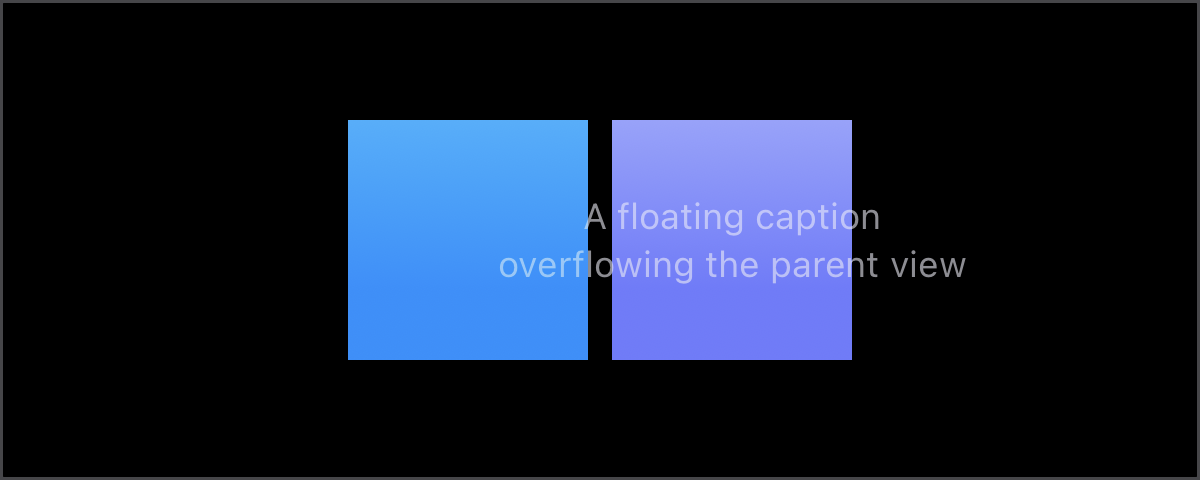
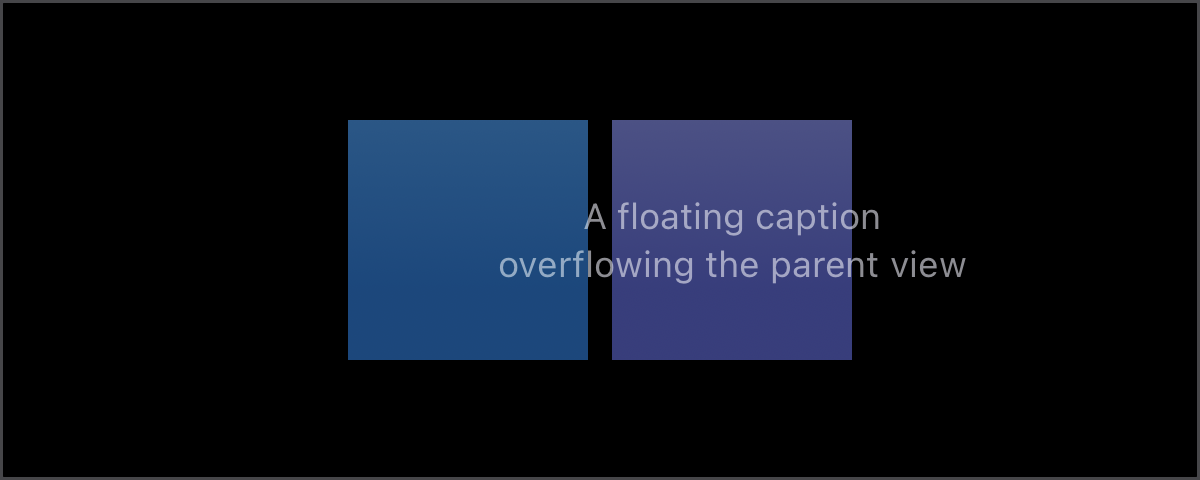
correct floating caption docs

Changed region(s): [[0.2775, 0.25, 0.7092, 0.75]]

diff --git a/sources/modifiers/FloatingCaptionModifier.swift b/sources/modifiers/FloatingCaptionModifier.swift
@@ -26,10 +26,10 @@ import SwiftUI
 /// ```swift
 /// HStack {
 ///     Rectangle()
-///         .fill(.blue.gradient)
+///         .fill(.blue.gradient.secondary)
 ///         .frame(width: 80, height: 80)
 ///     Rectangle()
-///         .fill(.indigo.gradient)
+///         .fill(.indigo.gradient.secondary)
 ///         .frame(width: 80, height: 80)
 ///         .floatingCaption("A floating caption\noverflowing the parent view")
 /// }
@@ -40,11 +40,10 @@ import SwiftUI
 /// ### Text and Alignment
 ///
 /// The caption can be configured by passing ``Trait`` instances to ``SwiftUICore/View/floatingCaption(_:_:)``,
-/// the ``FloatingCaptionModifier/Trait/alignment(_:)`` trait determines the position of the
-/// caption.
+/// the [`alignment(_:)`](doc:Trait/alignment(_:)) trait determines the position of the caption.
 ///
 /// Markdown formatting is supported in the given localized string key. The caption text treats the
-/// localized key similar to `SwiftUICore/Text/init(_:tableName:bundle:comment:)`. See ``SwiftUICore/Text``
+/// localized key similar to `SwiftUICore/Text/init(_:tableName:bundle:comment:)`. See `SwiftUICore/Text`
 /// for more information about localizing and formatting strings.
 ///
 /// ```swift

diff --git a/tests/documentation-renders/RendersforFloatingCaption.swift b/tests/documentation-renders/RendersforFloatingCaption.swift
@@ -21,10 +21,10 @@ struct RendersForFloatingCaption {
         let resource = try DocumentationRenderer.render("floating-caption", "default", height: 160) {
             HStack {
                 Rectangle()
-                    .fill(.blue.gradient)
+                    .fill(.blue.gradient.secondary)
                     .frame(width: 80, height: 80)
                 Rectangle()
-                    .fill(.indigo.gradient)
+                    .fill(.indigo.gradient.secondary)
                     .frame(width: 80, height: 80)
                     .floatingCaption("A floating caption\noverflowing the parent view")
             }